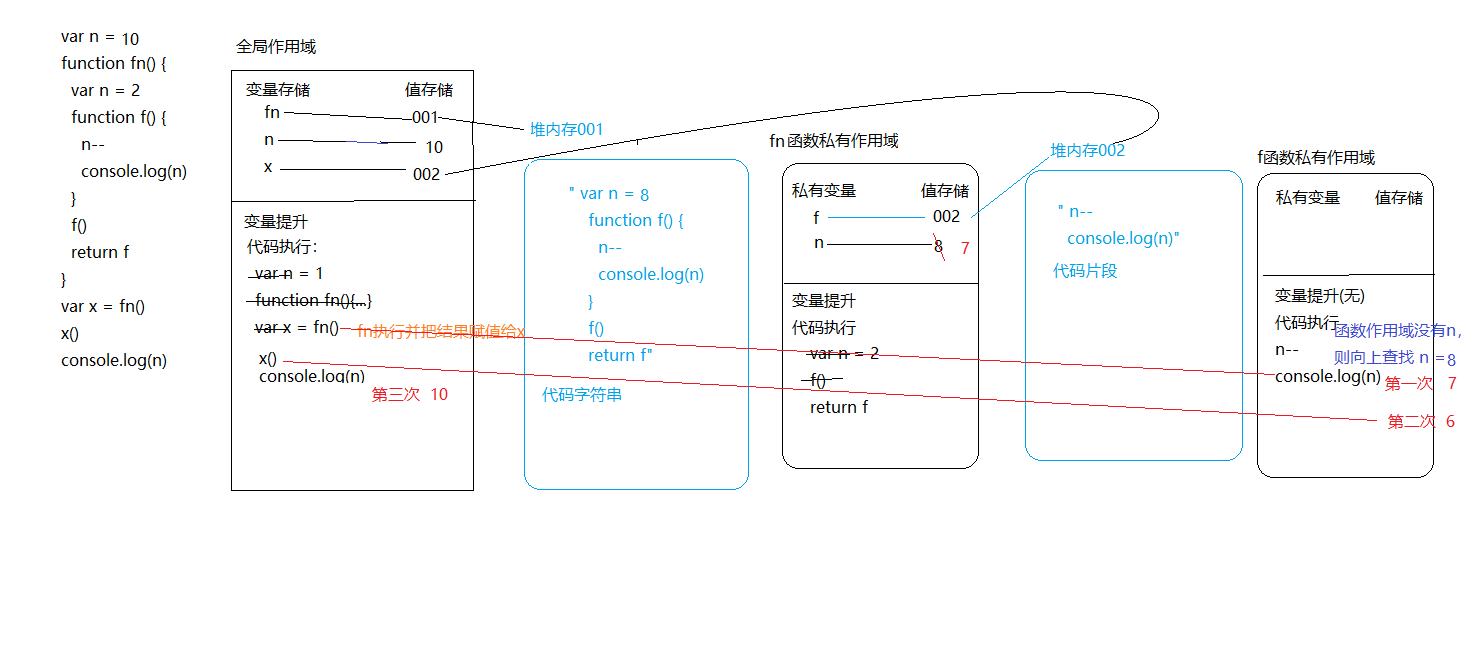
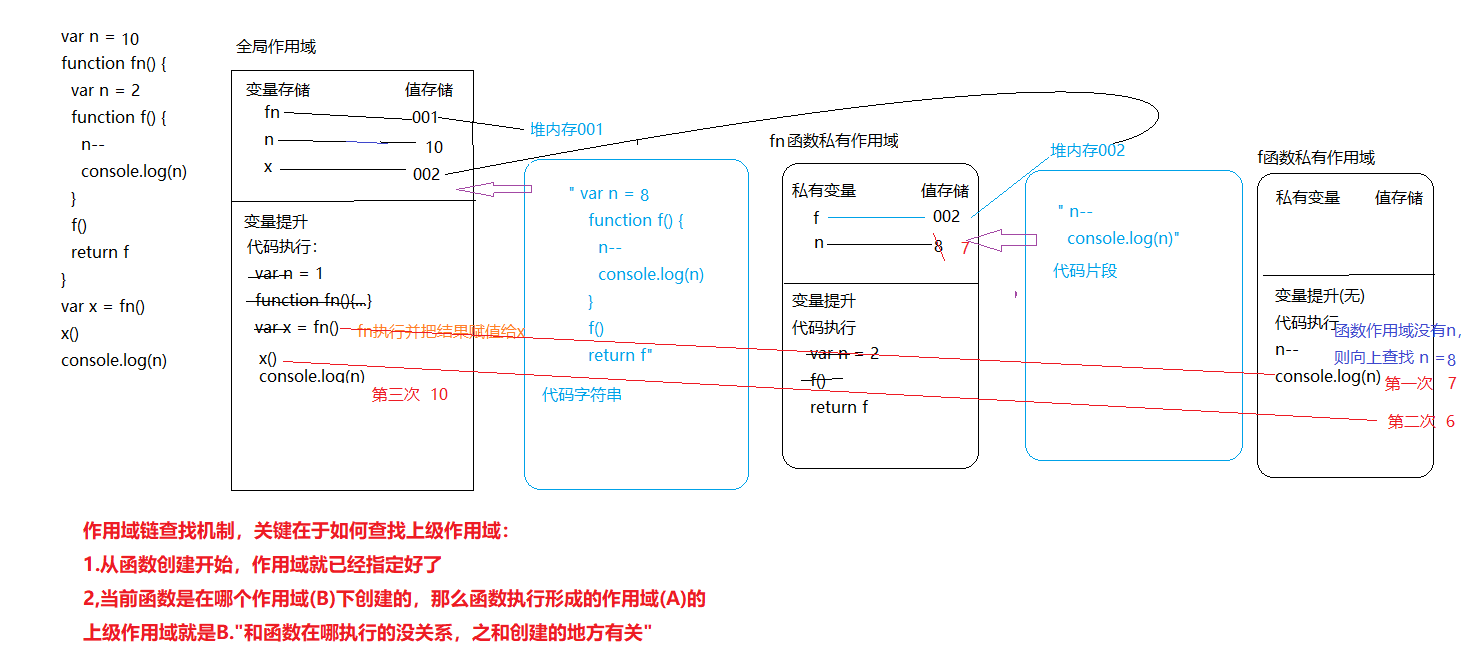
bb

Changed region(s): [[0.0311, 0.7963, 0.497, 0.9801], [0.3106, 0.2757, 0.3417, 0.3063]]

diff --git a/OverView/code/JS_19_闭包.html b/OverView/code/JS_19_闭包.html
@@ -1,0 +1,30 @@
+<!DOCTYPE html>
+<html lang="en">
+  <head>
+    <meta charset="UTF-8" />
+    <meta http-equiv="X-UA-Compatible" content="IE=edge" />
+    <meta name="viewport" content="width=device-width, initial-scale=1.0" />
+    <title>作用域链</title>
+  </head>
+  <body>
+    <script>
+      /* 
+      函数执行形成的私有栈内存，会把内存中所有的私有变量保护起来，和外面没有任何的关系=>函数的这种保护机制就是闭包。
+      
+      */
+     var i = 5
+     function fn(i) {
+       return function (n) {
+         console.log(n + (++i))
+       }
+     }
+
+     var f = fn(1)
+     f(2)
+     fn(3)(4)
+     fn(5)(6)
+     f(7)
+     console.log(i)
+    </script>
+  </body>
+</html>

diff --git a/OverView/Main.md b/OverView/Main.md
@@ -1616,7 +1616,17 @@ console.log(n)
 
 函数执行形成的私有栈内存，会把内存中所有的私有变量保护起来，和外面没有任何的关系=>函数的这种保护机制就是闭包。
 
-
+1. 创建函数：
+   - 开辟一个堆内存
+   - 把函数体中的代码当做字符串存储进去
+   - 把堆内存的地址赋值给函数名
+   - **函数在哪创建的，那么它执行时所需要查找到的上级作用域就是谁**
+2. 函数执行
+   - 形成一个全新的私有作用域、执行上下文、私有栈内存(执行一次形成一个，多个之间不会产生影响)
+   - 形参赋值&变量提升
+   - 代码执行(把所属堆内存中的代码字符串一行行执行)
+   - **遇到一个变量，首先看他是否是私有变量(形参和在私有作用域中声明的变量是私有变量)，是私有的就用自己的，不是则向上级作用域查找，一直到全局作用域为止===>这就是作用域链查找机制**
+   - 私有变量和外界的变量没有必然联系，可以理解为私有栈内存保护起来了，这种机制其实就是**闭包的保护机制**
 
 #### 手写系列
 
